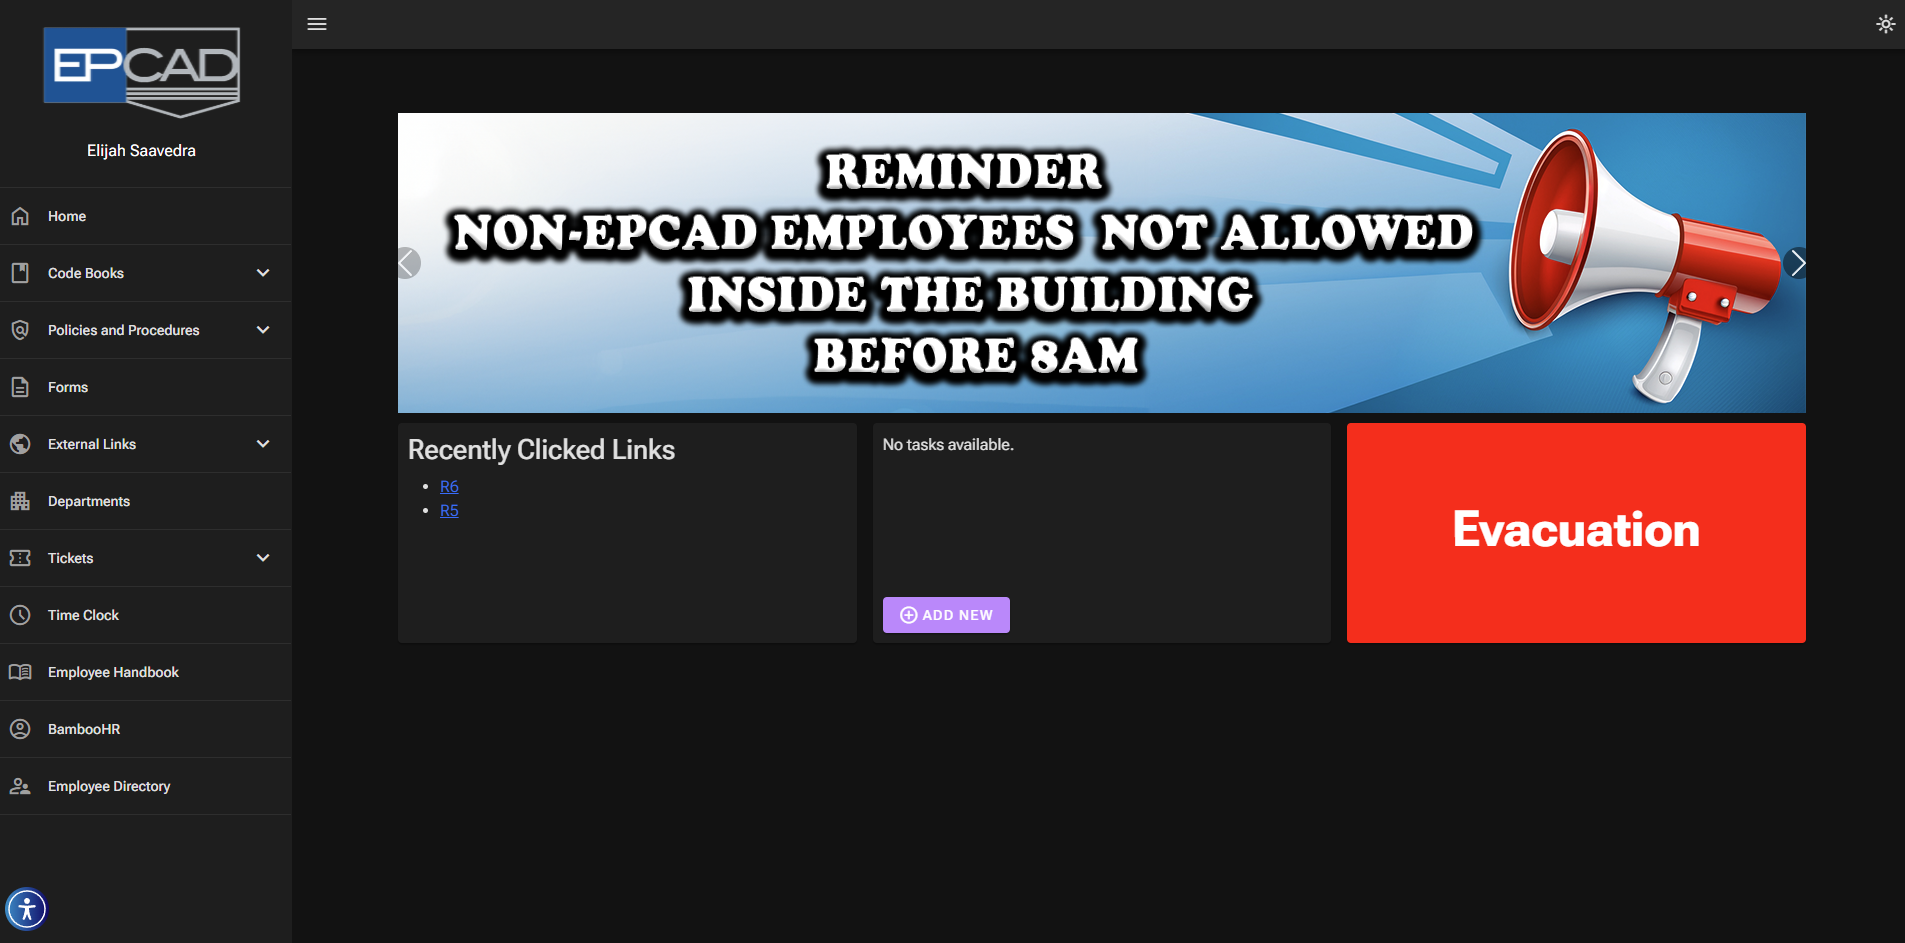
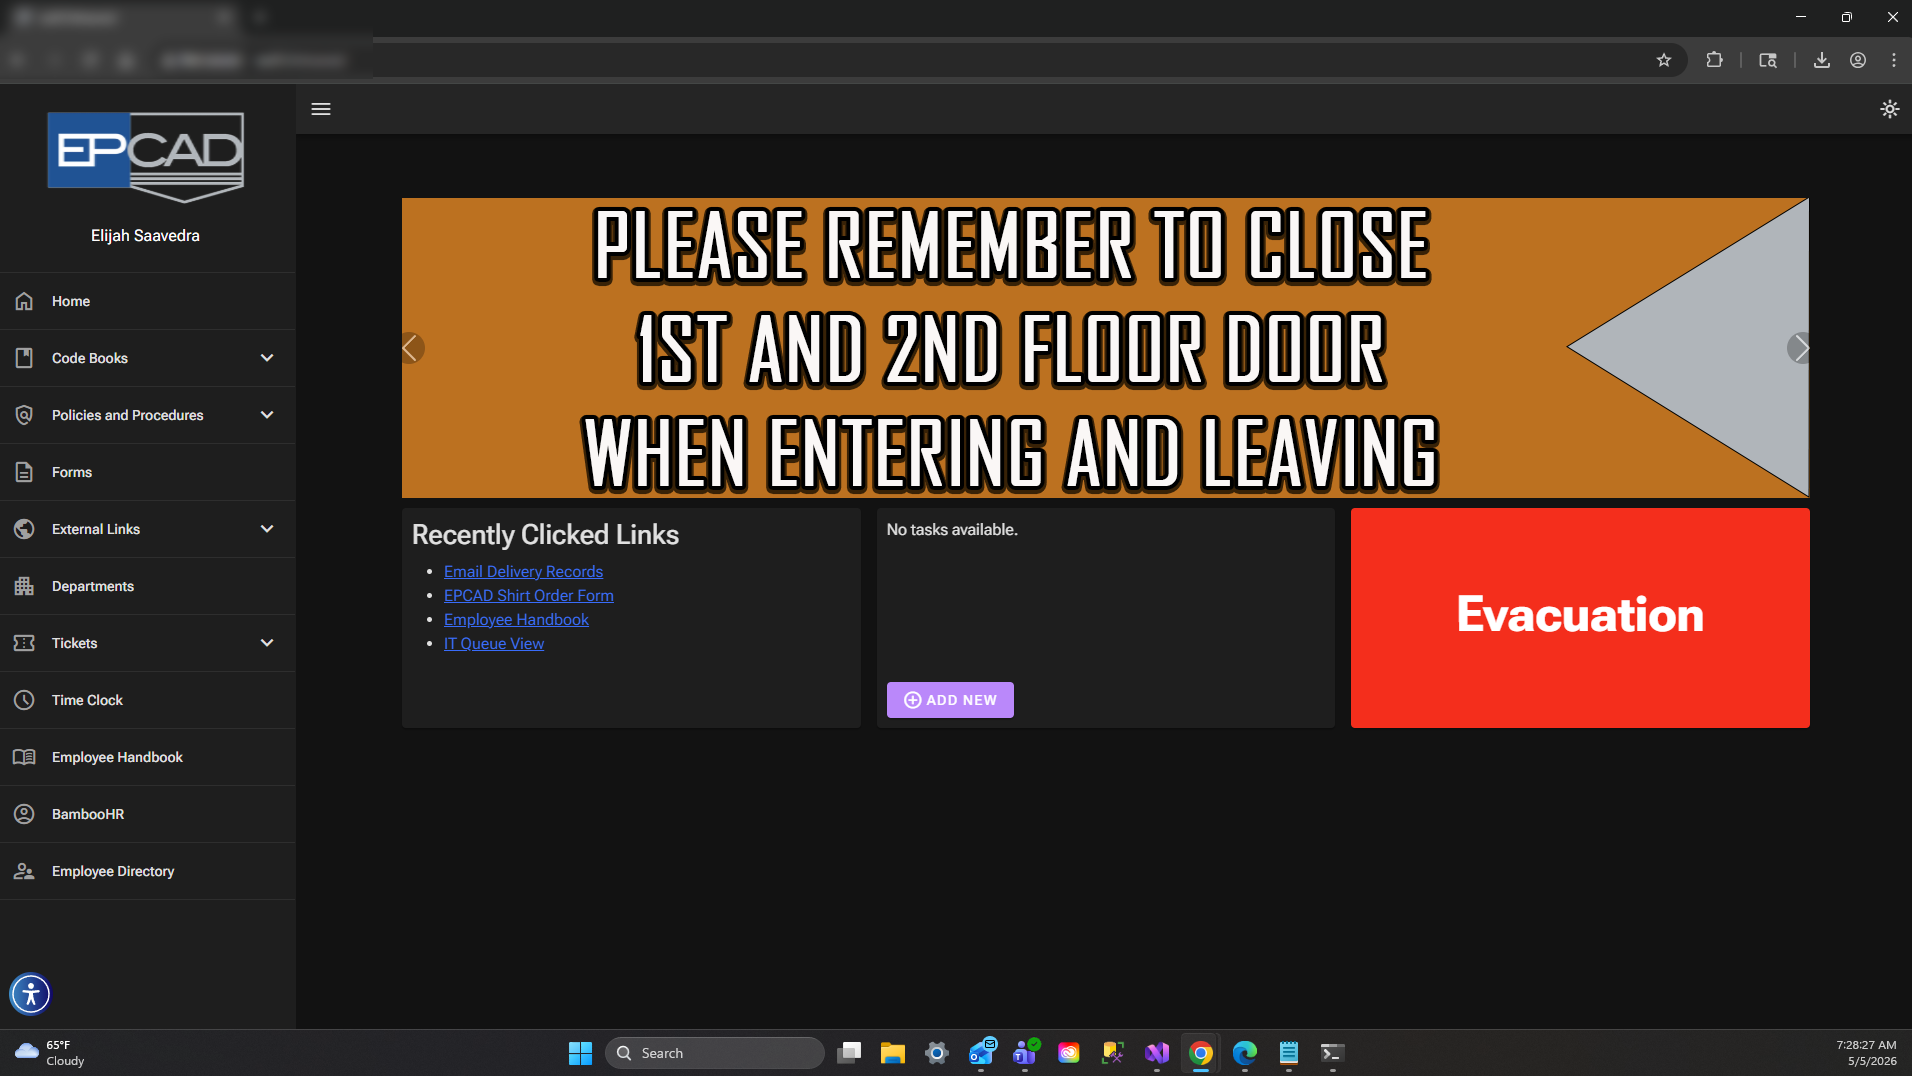
Updated images and video to showcase new projects and hide sensitive data

diff --git a/personalwebsite/src/components/FeaturedProject.jsx b/personalwebsite/src/components/FeaturedProject.jsx
@@ -17,13 +17,33 @@ function FeaturedProject() {
         <section className="featured-project">
             <div className="featured-project-inner">
                 <div className='featured-project-media'>
-                    <iframe
-                        className="project-video"
-                        src={project.demoUrl}
-                        title={`${project.title} demo video`}
-                        frameBorder="0"
-                        allowFullScreen
-                    />
+                    {project.videoFile ? (
+                        <video
+                            className="project-video"
+                            src={project.videoFile}
+                            poster={project.image}
+                            autoPlay
+                            muted
+                            loop
+                            playsInline
+                            controls
+                            preload="metadata"
+                        />
+                    ) : project.demoUrl ? (
+                        <iframe
+                            className="project-video"
+                            src={project.demoUrl}
+                            title={`${project.title} demo video`}
+                            frameBorder="0"
+                            allowFullScreen
+                        />
+                    ) : (
+                        <img
+                            className="project-image"
+                            src={project.image}
+                            alt={project.alt}
+                        />
+                    )}
                 </div>
                 <div className="featured-project-content">
                     <span className="featured-label">Featured Case Study</span>

diff --git a/personalwebsite/src/pages/ProjectDetailPage.jsx b/personalwebsite/src/pages/ProjectDetailPage.jsx
@@ -20,7 +20,19 @@ function ProjectDetailPage() {
                 <span>Back to Projects</span>
             </Link>
             <div className="project-hero">
-                {project.demoUrl ? (
+                {project.videoFile ? (
+                    <video
+                        className="project-video"
+                        src={project.videoFile}
+                        poster={project.image}
+                        autoPlay
+                        muted
+                        loop
+                        playsInline
+                        controls
+                        preload="metadata"
+                    />
+                ) : project.demoUrl ? (
                     <iframe
                         className="project-video"
                         src={project.demoUrl}

diff --git a/personalwebsite/src/data/projectsData.js b/personalwebsite/src/data/projectsData.js
@@ -33,7 +33,7 @@ const projectsData = [
             { value: 18, suffix: 'mo+', label: 'In production', duration: 1500 }
         ],
         isPrivate: true,
-        demoUrl: 'https://www.loom.com/embed/a4067bc553c648928749350bb877c629?t=3',
+        videoFile: '/projects/EPCADIntranet.mp4',
         image: '/projects/epcad-intranet.png', 
         alt: 'Screenshot of the EPCAD Intranet homepage, showing a modern dashboard with company news, quick links, and user profile information.',
         slug: 'epcad-intranet'